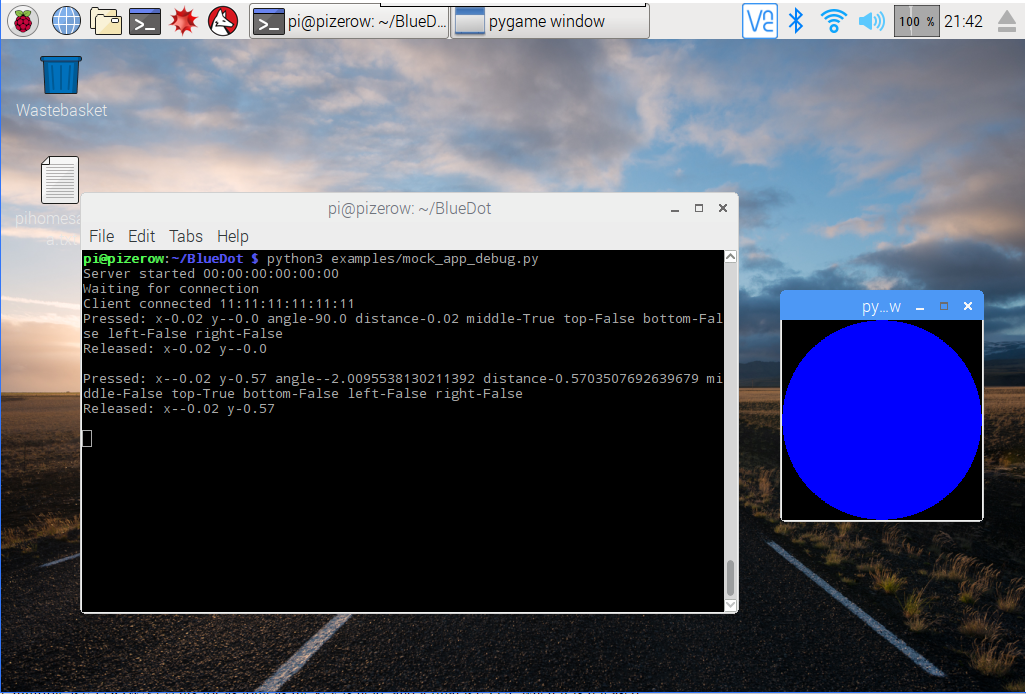
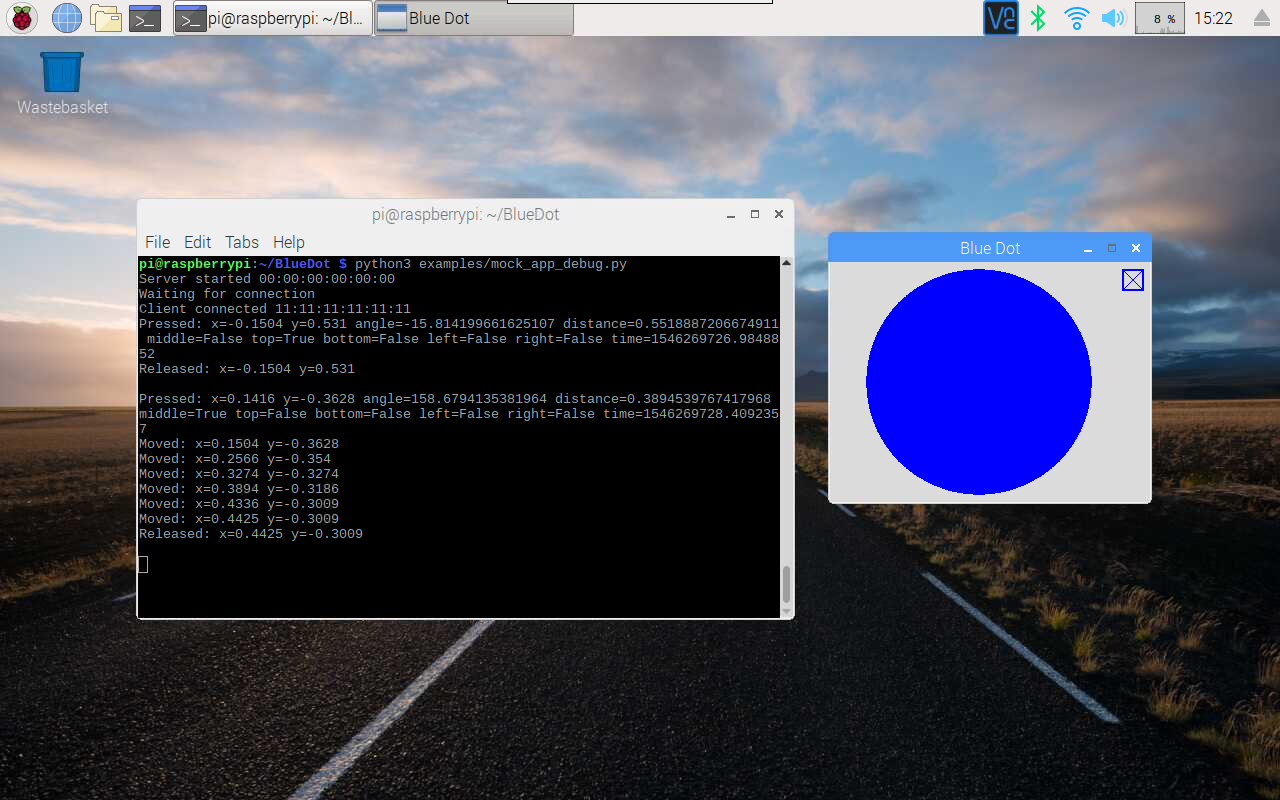
fix launch mock app

diff --git a/setup.py b/setup.py
@@ -12,7 +12,7 @@ else:
 
 __project__ = 'bluedot'
 __desc__ = 'A zero boiler plate bluetooth remote'
-__version__ = '1.3.0'
+__version__ = '1.3.1'
 __author__ = "Martin O'Hanlon"
 __author_email__ = 'martin@ohanlonweb.com'
 __license__ = 'MIT'
@@ -49,7 +49,7 @@ __long_description__ = """# Blue Dot
 
 1. Install
 
-```bash
+```
 sudo pip3 install bluedot
 ```
 
@@ -57,7 +57,7 @@ sudo pip3 install bluedot
 
 3. Pair your Raspberry Pi
 
-4. Write some code:
+4. Write some code
 
 ```python
 from bluedot import BlueDot
@@ -82,7 +82,7 @@ You can press it, slide it, swipe it, rotate it - one blue circle can do a lot!
 
 ## Even more
 
-The [online documentation](http://bluedot.readthedocs.io/en/latest/) describes how to use Blue Dot and the Python library including Recipes and ideas.
+The [online documentation](http://bluedot.readthedocs.io/en/latest/) describes how to use Blue Dot and the Python library including recipes and ideas.
 
 """
 
@@ -97,6 +97,7 @@ if __name__ == '__main__':
           author_email = __author_email__,
           license= __license__,
           keywords=__keywords__,
+          classifiers=__classifiers__,
           packages = [__project__],
           #install_requires = __requires__,
           entry_points={

diff --git a/bluedot/mock.py b/bluedot/mock.py
@@ -259,7 +259,7 @@ class MockBlueDot(BlueDot):
 
         The mock app uses pygame which will need to be installed.
         """
-        self._mock_app_thread = WrapThread(target=self._launch_mock_app2)
+        self._mock_app_thread = WrapThread(target=self._launch_mock_app)
         self._mock_app_thread.start()
 
     def _launch_mock_app(self):

diff --git a/examples/mock_app_debug.py b/examples/mock_app_debug.py
@@ -19,7 +19,7 @@ mbd.when_moved = moved
 mbd.start()
 
 #launch a mock app
-mbd.launch_mock_app2()
+mbd.launch_mock_app()
 
 try:
     while True:

diff --git a/docs/changelog.rst b/docs/changelog.rst
@@ -6,6 +6,11 @@ Change log
 Bluedot Python library
 ----------------------
 
+1.3.1 - 2019-01-01
+~~~~~~~~~~~~~~~~~~
+
+ * minor bug fix to launch_mock_app
+
 1.3.0 - 2018-12-30
 ~~~~~~~~~~~~~~~~~~
 
